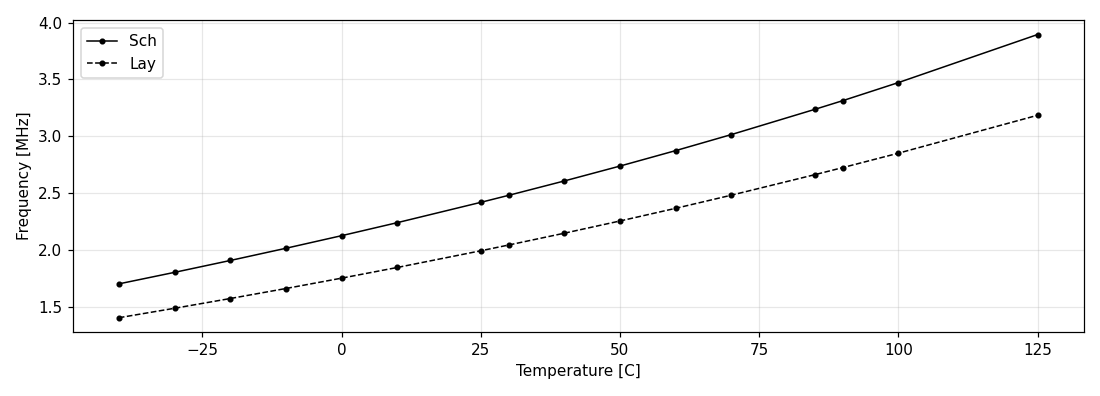
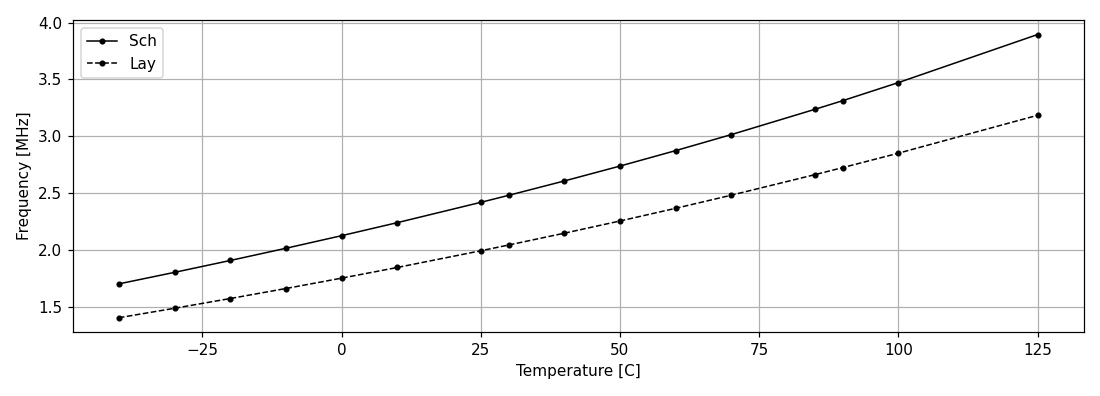
plot: full-strength gridlines
Claude-Session: https://claude.ai/code/session_01V2NXKz4pJqzwkkQt9GQ19N

diff --git a/sim/LELO_TEMP/plot_results.py b/sim/LELO_TEMP/plot_results.py
@@ -108,7 +108,7 @@ def error_panel(ax, runs, cal):
     lim = max(ind, wmax, -wmin) + 3
     ax.set_ylim(-lim, lim)
     ax.set_xlim(TMIN - 5, TMAX + 5)
-    ax.grid(True, alpha=0.3)
+    ax.grid(True)
 
 
 def error_figure(runset):
@@ -151,7 +151,7 @@ def transfer_figure():
                     lw=1, marker="o", ms=3, label=view)
     ax.set_xlabel("Temperature [C]")
     ax.set_ylabel("Frequency [MHz]")
-    ax.grid(True, alpha=0.3)
+    ax.grid(True)
     ax.legend()
     fig.tight_layout()
     fig.savefig("tran_transfer.png", dpi=110)
